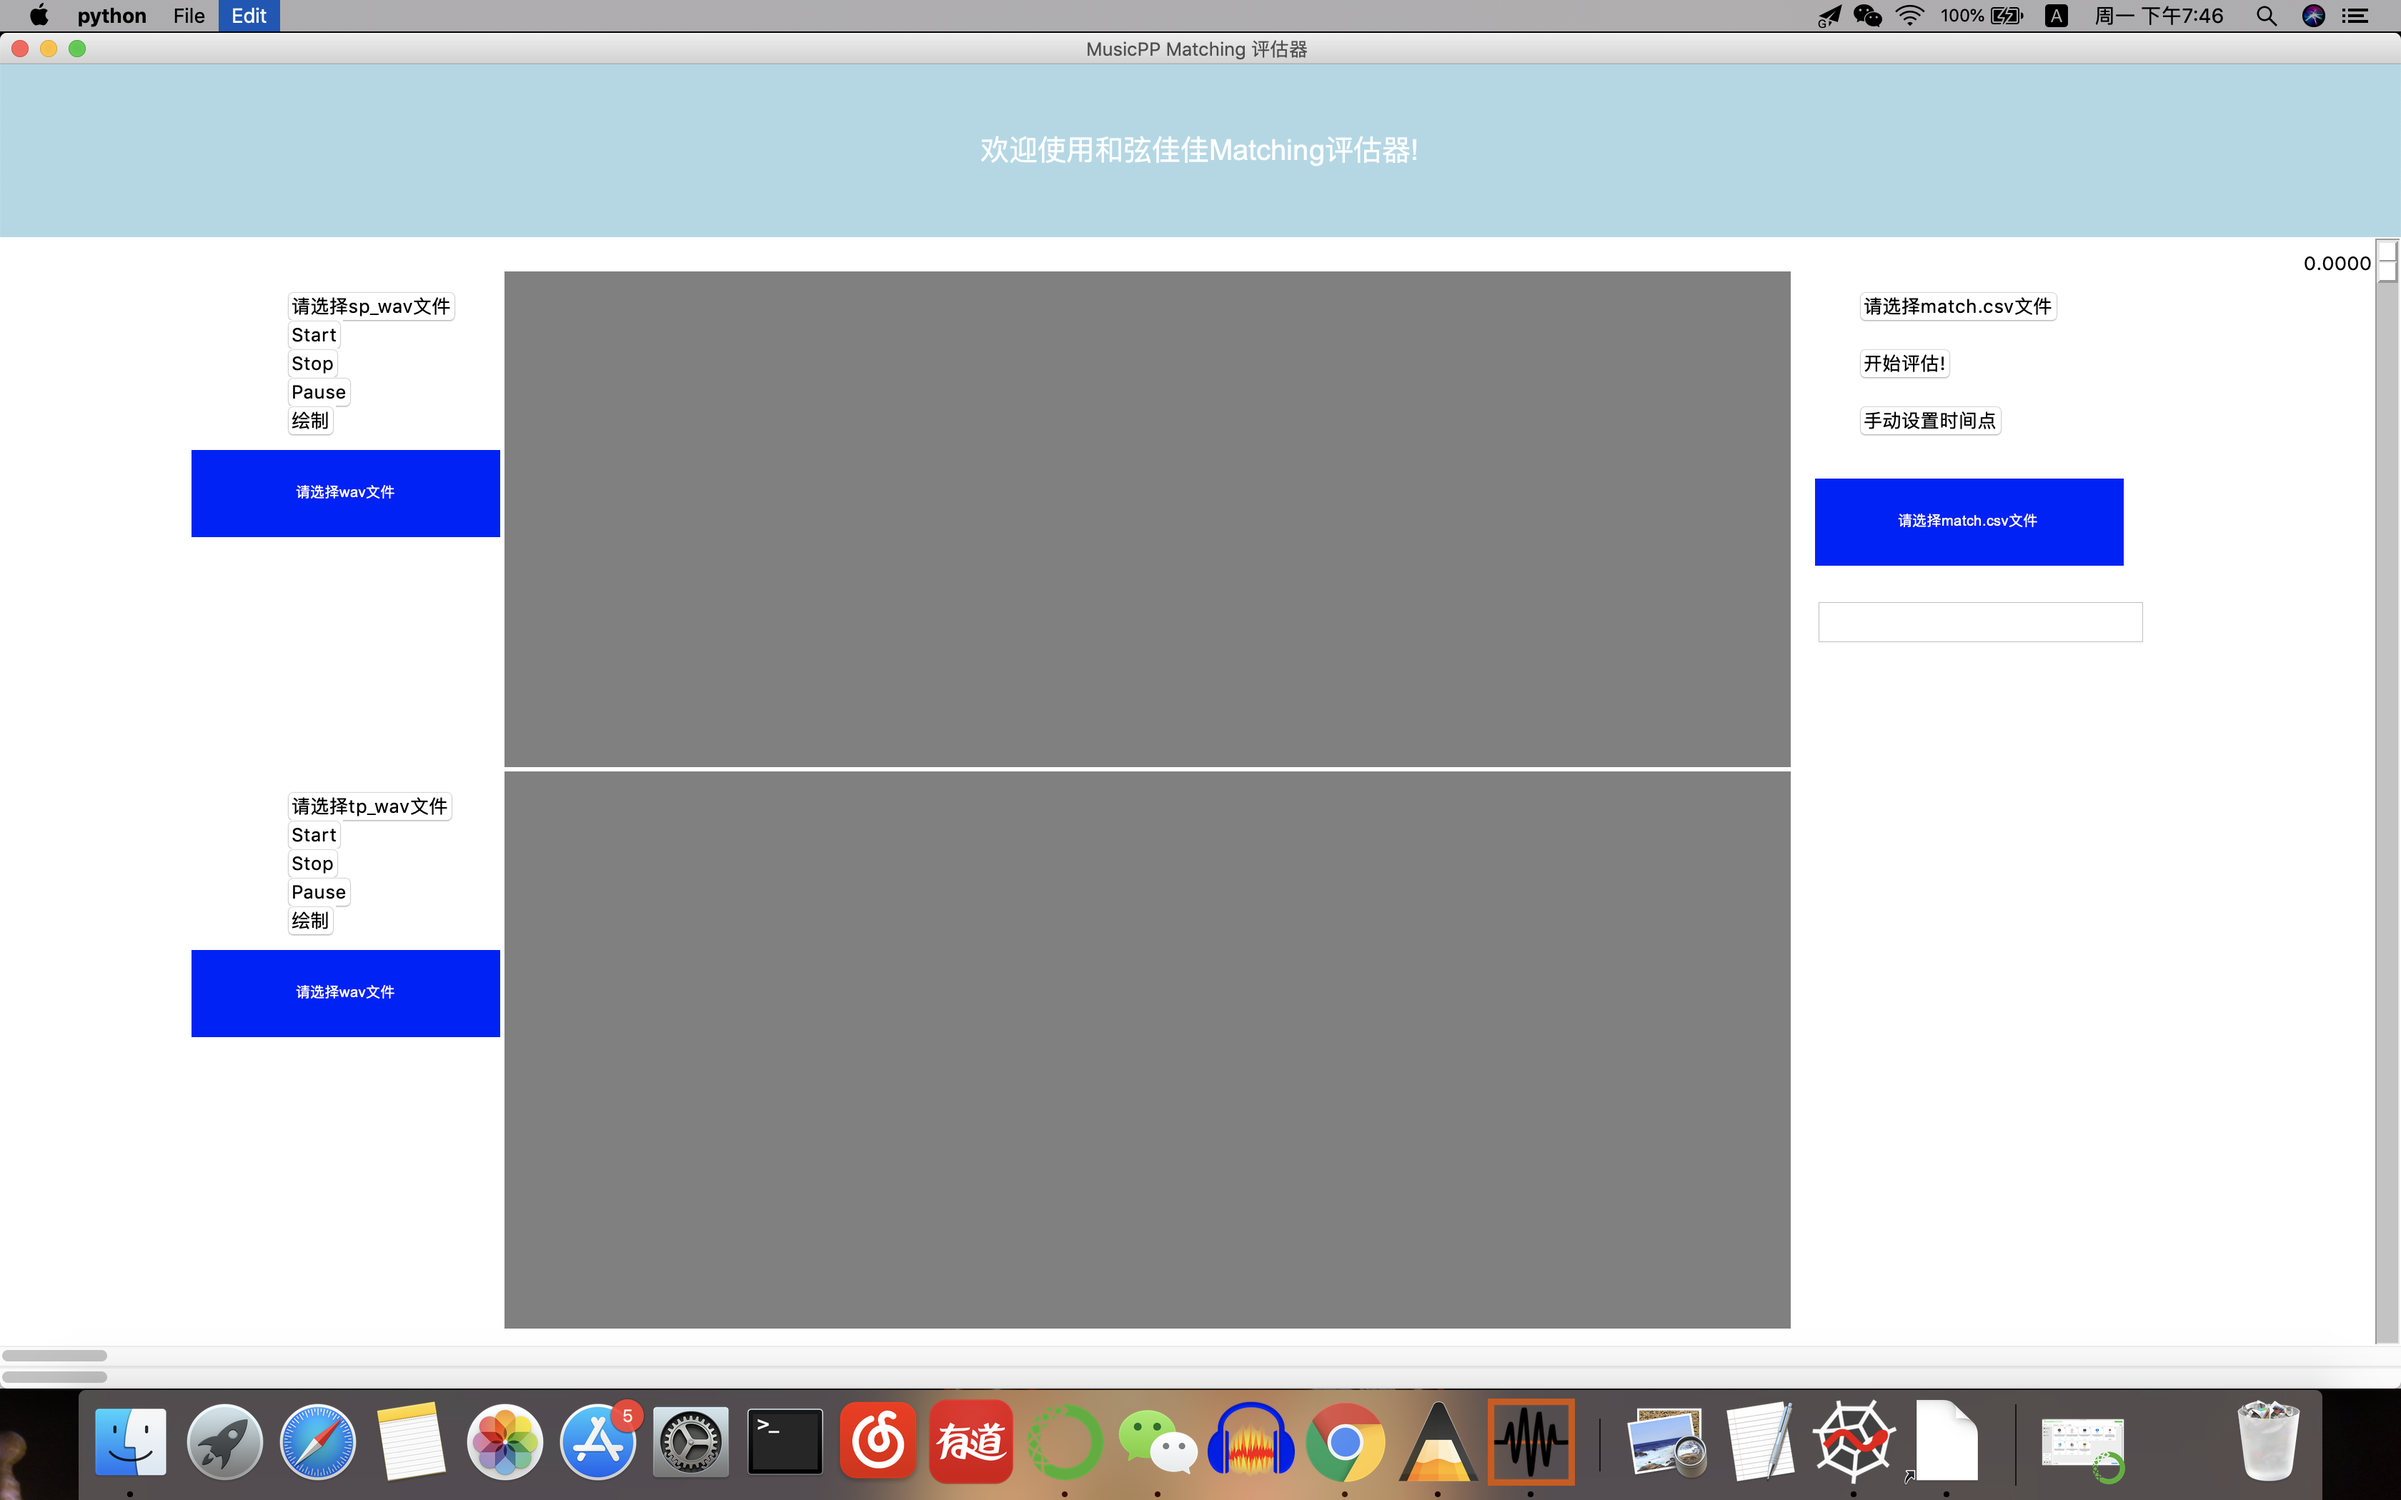
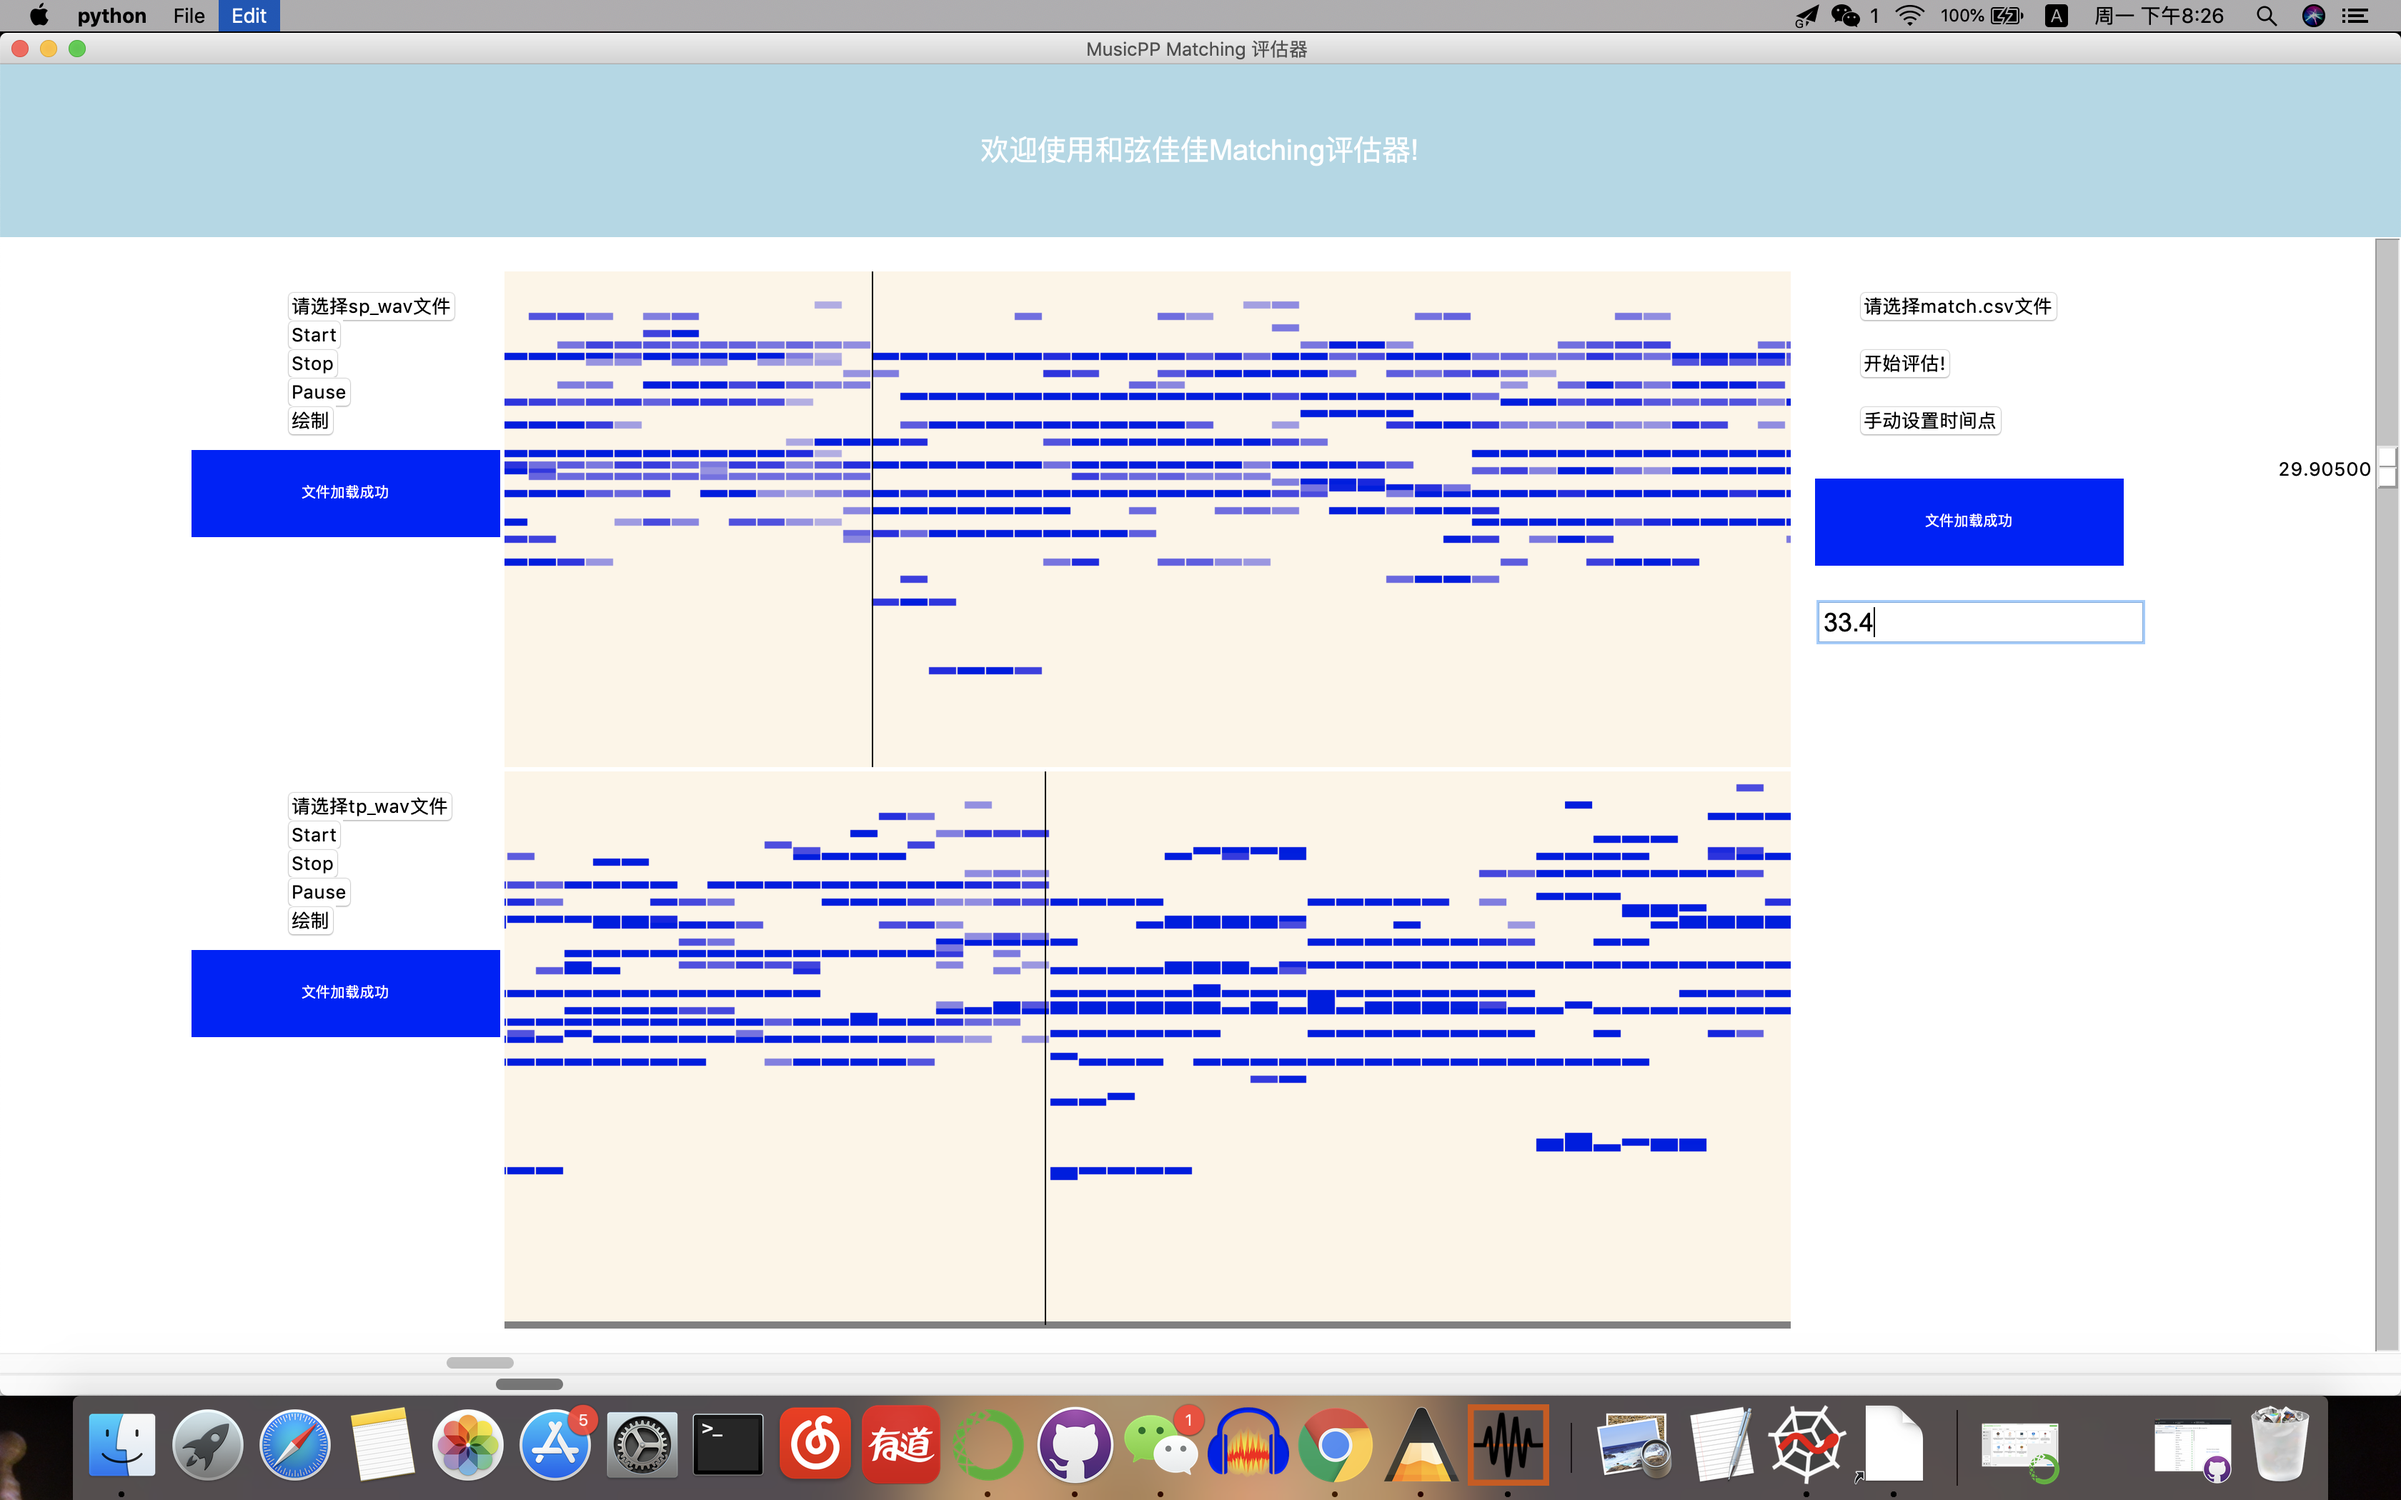
Matching Evaluation Engine
We developed a new multiple-spectrogram-matching algorithm based on the Sonic Visualizer's matching plugin. In order to evaluate the accuracy of new matching results, an Tkinter based Evaluation Engine.

diff --git a/app.py b/app.py
@@ -3,7 +3,7 @@ from pitchogram import pitchogram_from_signal
 from wave_signal import Signal
 import cv2 as cv
 import wave
-ALLPITCH = 96
+ALLPITCH = 97
 class Draw_pic():
     def __init__(self,url,tempname):
         self.url = url
@@ -24,12 +24,18 @@ class Draw_pic():
     def energypic(self,threshhold,shadenum):
         """获取wav能量信息，绘制图片"""
         active_notes, note_names, note_numbers, time_values = self.__get_activenotes()
+        # print(active_notes)
+        # print(note_names)
+        # print(note_numbers)
         notesnum = len(active_notes)
         totallengh = len(time_values) * 20
-        img = np.zeros((96 * 4, totallengh, 3), np.uint8)
+        img = np.zeros((97 * 4, totallengh, 3), np.uint8)
         img[:,:,0] = 230
         img[:,:,1] = 245
         img[:,:,2] = 253
+
+        # for i in range(ALLPITCH-1):
+        #     cv.line(img, (0, (i+1)*4),(18, (i+1)*4),(0,0,255),1,8)
         active_notes.sort(key=lambda x: x['v'], reverse=True)
         threshholdnum = int(notesnum * threshhold)
         maxactive = active_notes[0]["v"]
@@ -37,23 +43,33 @@ class Draw_pic():
         # colorradio_b = (230 - 0) / (maxactive-minactive)
         colorradio_g = (245 - 0) / (maxactive-minactive)
         colorradio_r = (253 - 0) / (maxactive-minactive)
-        print(colorradio_r)
+        # print(colorradio_r)
         adjustnum = [0.9e-16,1.9e-16,2.9e-16,0.9e-16,1.9e-15,2.9e-15,0.9e-14,1.9e-14,2.9e-14,0.9e-13]
+        a = 0
         for i in range(threshholdnum):
+
+            # if active_notes[i]["t"]==0:
+            #     a+=1
+                # print(active_notes[i]["v"])
+                # print("===========")
+                # print(active_notes[i]["n"])
+                # print("------------")
+
             corlor_r = int(253 - (active_notes[i]["v"]-minactive)*(colorradio_r+adjustnum[shadenum]))
             corlor_g = int(245 - (active_notes[i]["v"]-minactive)*(colorradio_g+adjustnum[shadenum]))
             # corlor_b = int(230 - (active_notes[i]["v"]-minactive)*colorradio_b)
             cv.rectangle(img, (20 * (active_notes[i]["t"]), 4 * (96 - (active_notes[i]["n"]) - 1)),
-                                 (20 * (active_notes[i]["t"] + 1)-2, 4 * ((96 - (active_notes[i]["n"])))),
+                                 (20 * (active_notes[i]["t"]+1)-2, 4 * ((96 - (active_notes[i]["n"])))),
                                  (230, corlor_g, corlor_r), -1)
-#        cv.imshow("image",img)
-#        cv.imwrite("./{}".format(self.tempname),img)
+        # print(a)
+        # cv.imshow("image",img)
+        cv.imwrite("./{}".format(self.tempname),img)
         return totallengh
 
 if __name__ == '__main__':
-    url = "/Users/jiating/Documents/pythoncode/wavepitch/tp_cut.wav"
+    url = "/Users/jiating/Documents/pythoncode/wavepitch/sp_cut.wav"
     showpic = Draw_pic(url,"1.png")
-    showpic.energypic(0.6,6)
+    showpic.energypic(1,9)
     cv.waitKey(0)
     cv.destroyAllWindows()
 

diff --git a/Match_GUI.py b/Match_GUI.py
@@ -104,13 +104,15 @@ def input_wav2():
 #两个Button用于导入音频文件：       
 B1 = tk.Button(frame1,text='请选择sp_wav文件',command=input_wav1).place(anchor='w',x=200,y=170)
 B2 = tk.Button(frame2,text='请选择tp_wav文件',command=input_wav2).place(anchor='w',x=200,y=520)
+
 """
 Zoom
 """
+#I hope u will never use this function
 class LoadImage: 
     def __init__(self,root): 
      frame = tk.Frame(root) 
-     self.canvas = tk.Canvas(frame,width=1800,height=2000,scrollregion=(0,0,3500,3000)) 
+     self.canvas = tk.Canvas(frame,width=1800,height=2000,scrollregion=(0,0,3500,2000)) 
      self.hscroll = tk.Scrollbar(root,orient='horizontal',bd=2)
      self.hscroll.config(command=self.canvas.xview)
      self.canvas.config(xscrollcommand=self.hscroll.set)
@@ -162,6 +164,7 @@ def zoom():
     root.title("Crop Test") 
     App = LoadImage(root)
     root.mainloop() 
+    
 """
 设置Menu部分：
 """
@@ -300,7 +303,7 @@ def generate_specgram1():
     global length1
     showpic = app.Draw_pic(filename1,img1)
     #threshold:0-1; darkness:0-9
-    length1 = showpic.energypic(0.9,9)
+    length1 = showpic.energypic(1,9)
     #根据频谱图的长度调整canvas的窗口长度
     canvas1.config(scrollregion=(0,0,length1,8000))
     tempImage1 = tk.PhotoImage(file = img1)
@@ -314,7 +317,7 @@ def generate_specgram2():
     #必须将PhotoImage指定的tempImage声明为全局变量，否则图片在canvas中将不会被显示
     global tempImage2
     showpic = app.Draw_pic(filename2,img2)
-    length2 = showpic.energypic(0.9,9)
+    length2 = showpic.energypic(1,9)
     #根据频谱图的长度调整canvas的窗口长度
     canvas2.config(scrollregion=(0,0,length2,8000))
     tempImage2 = tk.PhotoImage(file = img2)
